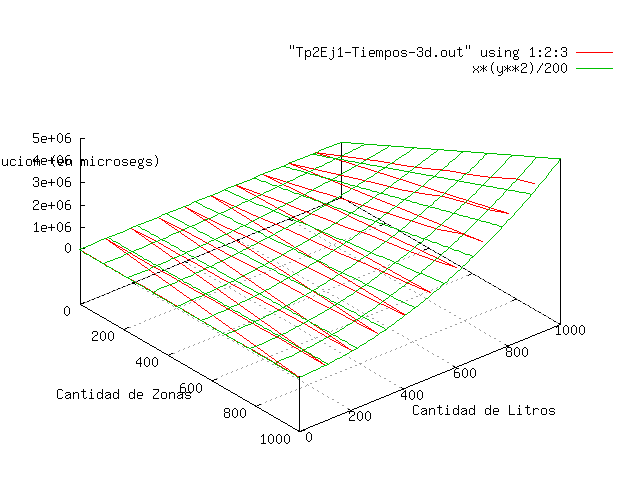
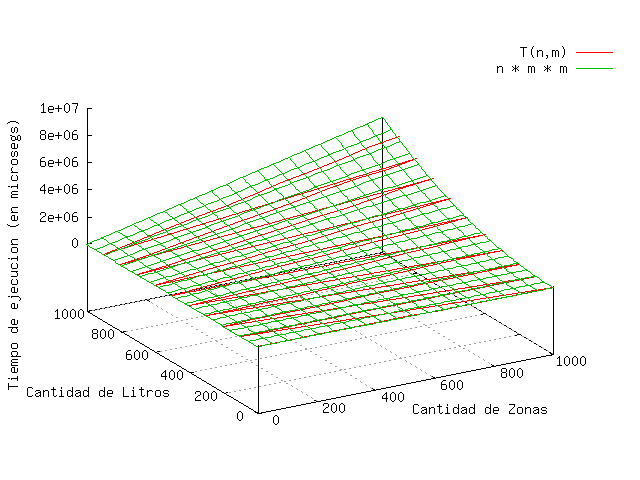
Informe: Continuacion del analisis de resultados

diff --git a/Algo3-TP2/tp2.tex b/Algo3-TP2/tp2.tex
@@ -184,11 +184,11 @@ $$t=\log(n)+\log(m)+\sum_{i=1}^{n}\sum_{j=1}^{m}\log(M_{i,j})>\log(n)+\log(m)+\s
 
 \section*{An\'alisis de resultados}
 
-Con el fin de analizar la complejidad del algoritmo propuesto se realizaron algunas pruebas. Estos experimentos están orientados a estudiar el tiempo de ejecución del mismo en relaci\'on a los datos de entrada, comparando el costo real del algoritmo junto con su complejidad teórica calculada. Debido a que el algoritmo en cuestión depende de dos parámetros de entrada, se realizaron pruebas separadas para cada uno de los parámetros. Las primeras dos pruebas analizan el costo de lo que anteriormente se denominó \textit{fumigación}, en base a la cantidad de zonas en primer término y en segundo lugar a la cantidad de litros. Los otras dos pruebas tendrán como objeto de analisis el costo de calcular los litros utilizados por cada zona en base a estos mismos dos parámetros. 
+Con el fin de analizar la complejidad de los algoritmos propuestos (fumigación y cálculo de litros por zona) se realizaron varias pruebas. Estos experimentos están orientados a estudiar el tiempo de ejecución del mismo en relaci\'on a los datos de entrada, comparando el costo real de los algoritmos junto con su complejidad teórica calculada. Para cada algoritmo se verán 3 gráficos distintos. El primero de ellos servirá para analizar la complejidad con respecto a los litros, es decir, fijando la cantidad de zonas. Reciprocamente, el segundo será en base a la cantidad de zonas con una cantidad fija de litros. Por último, el tercer gráfico en 3 dimensiones mostrará como se comporta el algoritmo considerando ambas variables en conjunto.
 
-Para las cuatro pruebas, se utilizó una función \textit{random} del lenguaje para generar matrices de \textit{mosquitosMuertos}) de tamaño $zonas*litros$ con valores aleatorios comprendidos entre $1$ y $10000$ con el fin de garantizar que las pruebas resulten lo suficientemente genéricas como para poder obtener resultados ``interesantes''.
+Para las instancias de prueba se utilizó una función \textit{random} del lenguaje para generar matrices de \textit{mosquitosMuertos}) de tamaño $zonas*litros$ con valores aleatorios comprendidos entre $1$ y $10000$ con el fin de garantizar que las pruebas resulten lo suficientemente genéricas como para poder obtener resultados ``interesantes''.
 
-En primer lugar, se hicieron cálculos en utilizando como variable la cantidad de zonas a fumigar, fijando en $10$ los litros disponibles. El rango de zonas analizados es desde $1$ hasta $10000$ zonas, de a intervalos de tamaño $10$. La elección de estos valores fue producto del análisis de 2 cuestiones importantes: que números permitirían tomar muestras utiles para la realización de los gráficos y cual era la máxima cantidad de datos que nuestra aplicación podría manejar, acotada por el tiempo disponible para realizar las pruebas y las limitacion propias de la máquina en cuestión. Empiricamente, se comprobó que dicho rango de zonas permitía correr la aplicación en un tiempo razonable y al mismo tiempo proveer datos interesantes para el análisis en cuestión. Del mismo modo, fijar en 10 los litros aseguró que sea la cantidad de zonas el parámetro ponderante en el cálculo de tiempo de ejecución.
+En primer lugar, se hicieron cálculos utilizando como variable la cantidad de zonas a fumigar, fijando en $10$ los litros disponibles. El rango de zonas analizados es desde $1$ hasta $10000$ zonas, de a intervalos de tamaño $10$. La elección de estos valores fue producto del análisis de 2 cuestiones importantes: que números permitirían tomar muestras utiles para la realización de los gráficos y cual era la máxima cantidad de datos que nuestra aplicación podría manejar, acotada por el tiempo disponible para realizar las pruebas y las limitacion propias de la máquina en cuestión. Empiricamente, se comprobó que dicho rango de zonas permitía correr la aplicación en un tiempo razonable y al mismo tiempo proveer datos interesantes para el análisis en cuestión. Del mismo modo, fijar en 10 los litros aseguró que sea la cantidad de zonas el parámetro ponderante en el cálculo de tiempo de ejecución.
 
 La segunda prueba resulta muy similar a la anterior en cuanto al rango de valores utilizados. La diferencia radica en que ahora el parámetro fijado es la cantidad de zonas en vez de la cantidad de litros, variando los litros en el rango $1$ hasta $10000$, de a intervalos de tamaño $10$ (al igual que en la prueba anterior).
 
